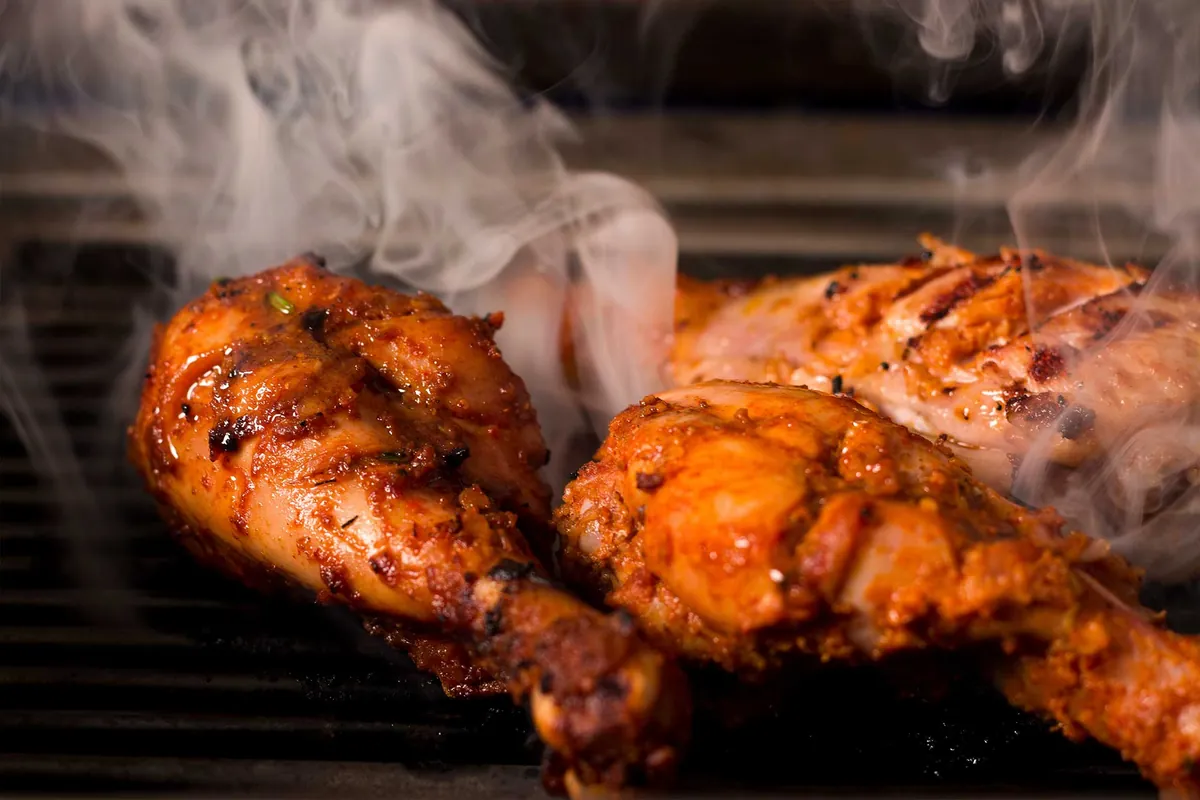
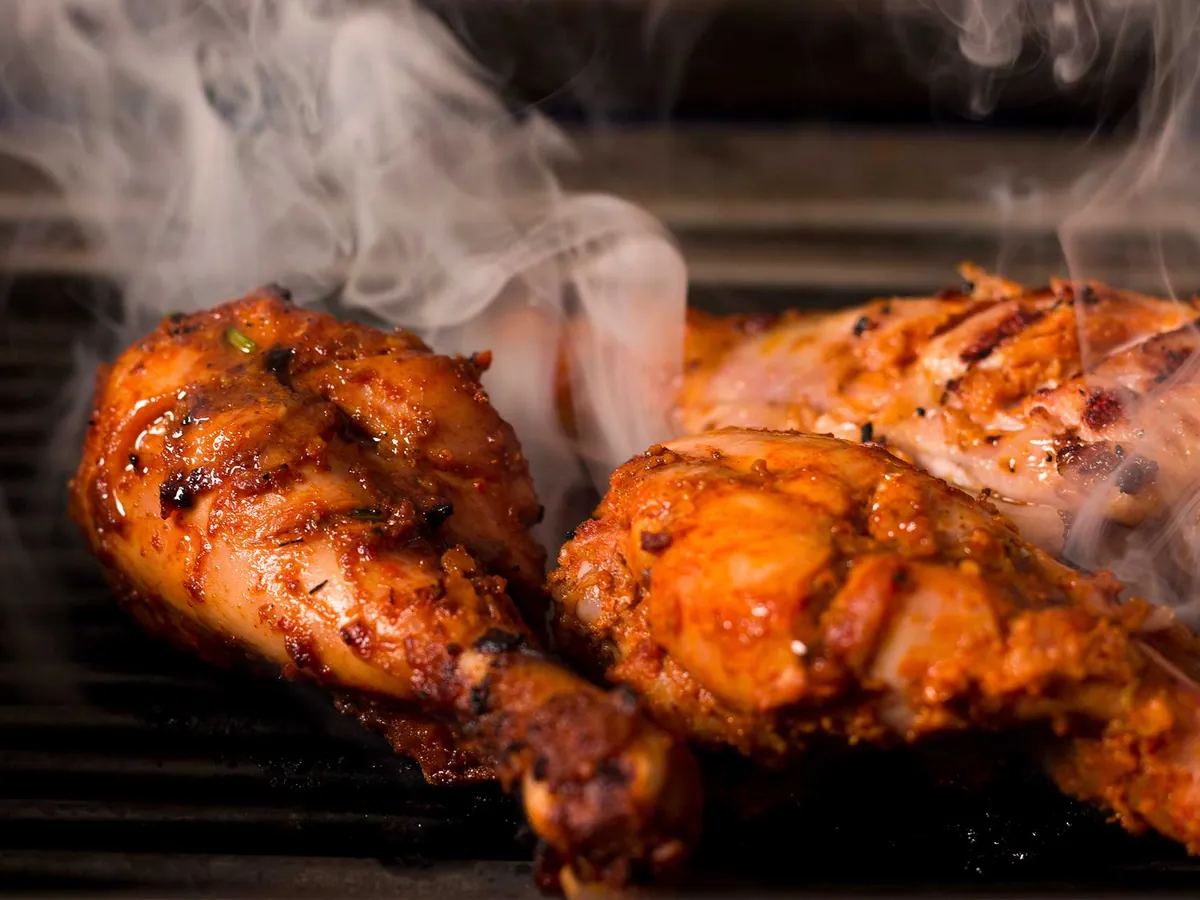
Products preview: add the lamb photo, standardise category shots to 4:3
Lamb is a client-supplied render, so six of eight categories now carry art and
only Misc. and Woodville Deli remain on the wood fallback.

All category photos re-cut to 1200x900 so they match the tile aspect exactly
rather than being cover-cropped again in the browser.

diff --git a/products-preview.html b/products-preview.html
@@ -252,8 +252,8 @@
     <h2 class="pv-h">The vintage sign</h2>
     <p class="pv-note">Built in CSS, no image files for the frame, seal, stars or rules, so it stays crisp
       at any size and recolours from the tokens. <strong>Five tiles use their own category photographs</strong>,
-      pulled from the Elementor stylesheet on their site. The three they have no photo for fall back to their
-      wood texture, which still reads as designed rather than broken.</p>
+      pulled from the Elementor stylesheet on their site. Lamb is a client-supplied stand-in. Misc. and
+      Woodville Deli still fall back to their wood texture, which reads as designed rather than broken.</p>
 
     <h3 style="margin-top:2.5rem">On the photograph</h3>
     <div class="signgrid" id="sign1"></div>
@@ -354,7 +354,7 @@ function tile(cat, mode, i){
   return b;
 }
 
-const PHOTO = {Beef:'beef', Pork:'pork', Sausage:'sausage', Venison:'venison', Poultry:'poultry'};
+const PHOTO = {Beef:'beef', Pork:'pork', Sausage:'sausage', Venison:'venison', Poultry:'poultry', Lamb:'lamb'};
 const FRAME = `<svg class="sign__frame" viewBox="0 0 400 300" preserveAspectRatio="none" aria-hidden="true">
   <path d="M13 31 L31 13 H369 L387 31 V269 L369 287 H31 L13 269 Z" fill="none" stroke="currentColor" stroke-width="2.5"/>
   <path d="M21 35 L35 21 H365 L379 35 V265 L365 279 H35 L21 265 Z" fill="none" stroke="currentColor" stroke-width="1"/>

diff --git a/assets/img/README.md b/assets/img/README.md
@@ -246,3 +246,10 @@ iStock-1128746000.jpg and similar, so they do license stock photography. These s
 are very likely licensed stock too. Same business and same owner, so a standard
 royalty-free licence should cover the new site, but John should confirm he holds
 the licences before launch.
+
+Lamb added 2026-08-26 from a client-supplied render (lamb chop). It is a generated
+stand-in, not one of their photographs, and carries the same replace-before-launch
+caveat as the five best-seller shots. Misc. and Woodville Deli are still on wood.
+
+All seven files in cat/photo/ are now 1200x900, matching the 4:3 sign tile exactly
+so nothing is cropped a second time at render.
